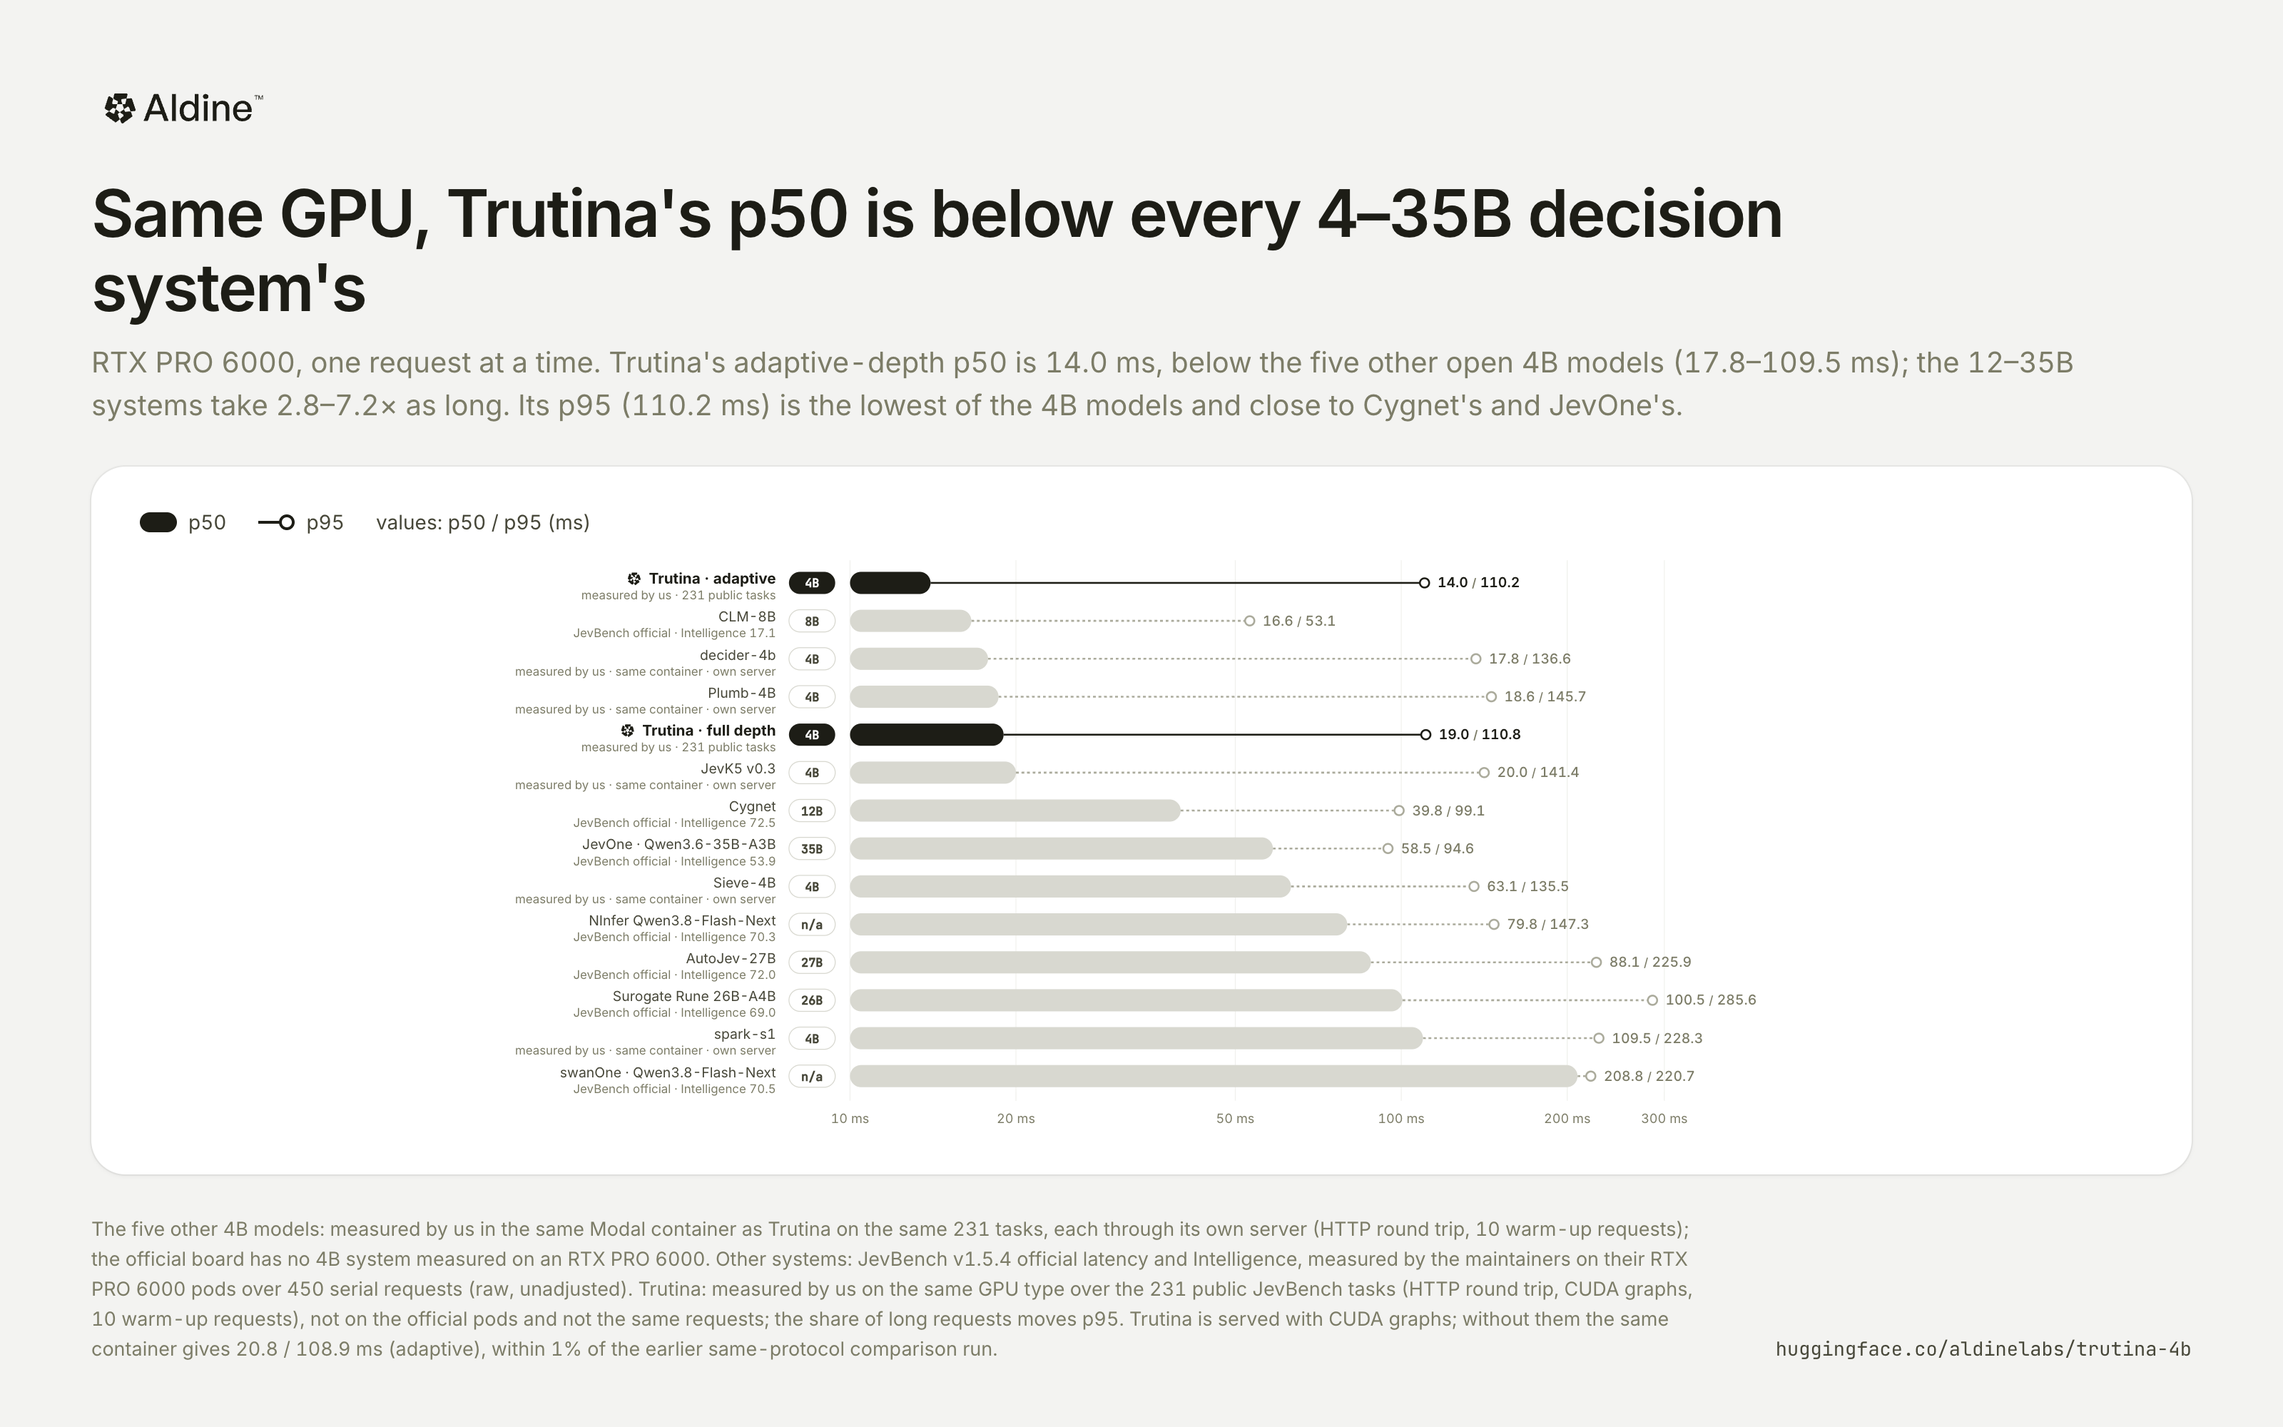
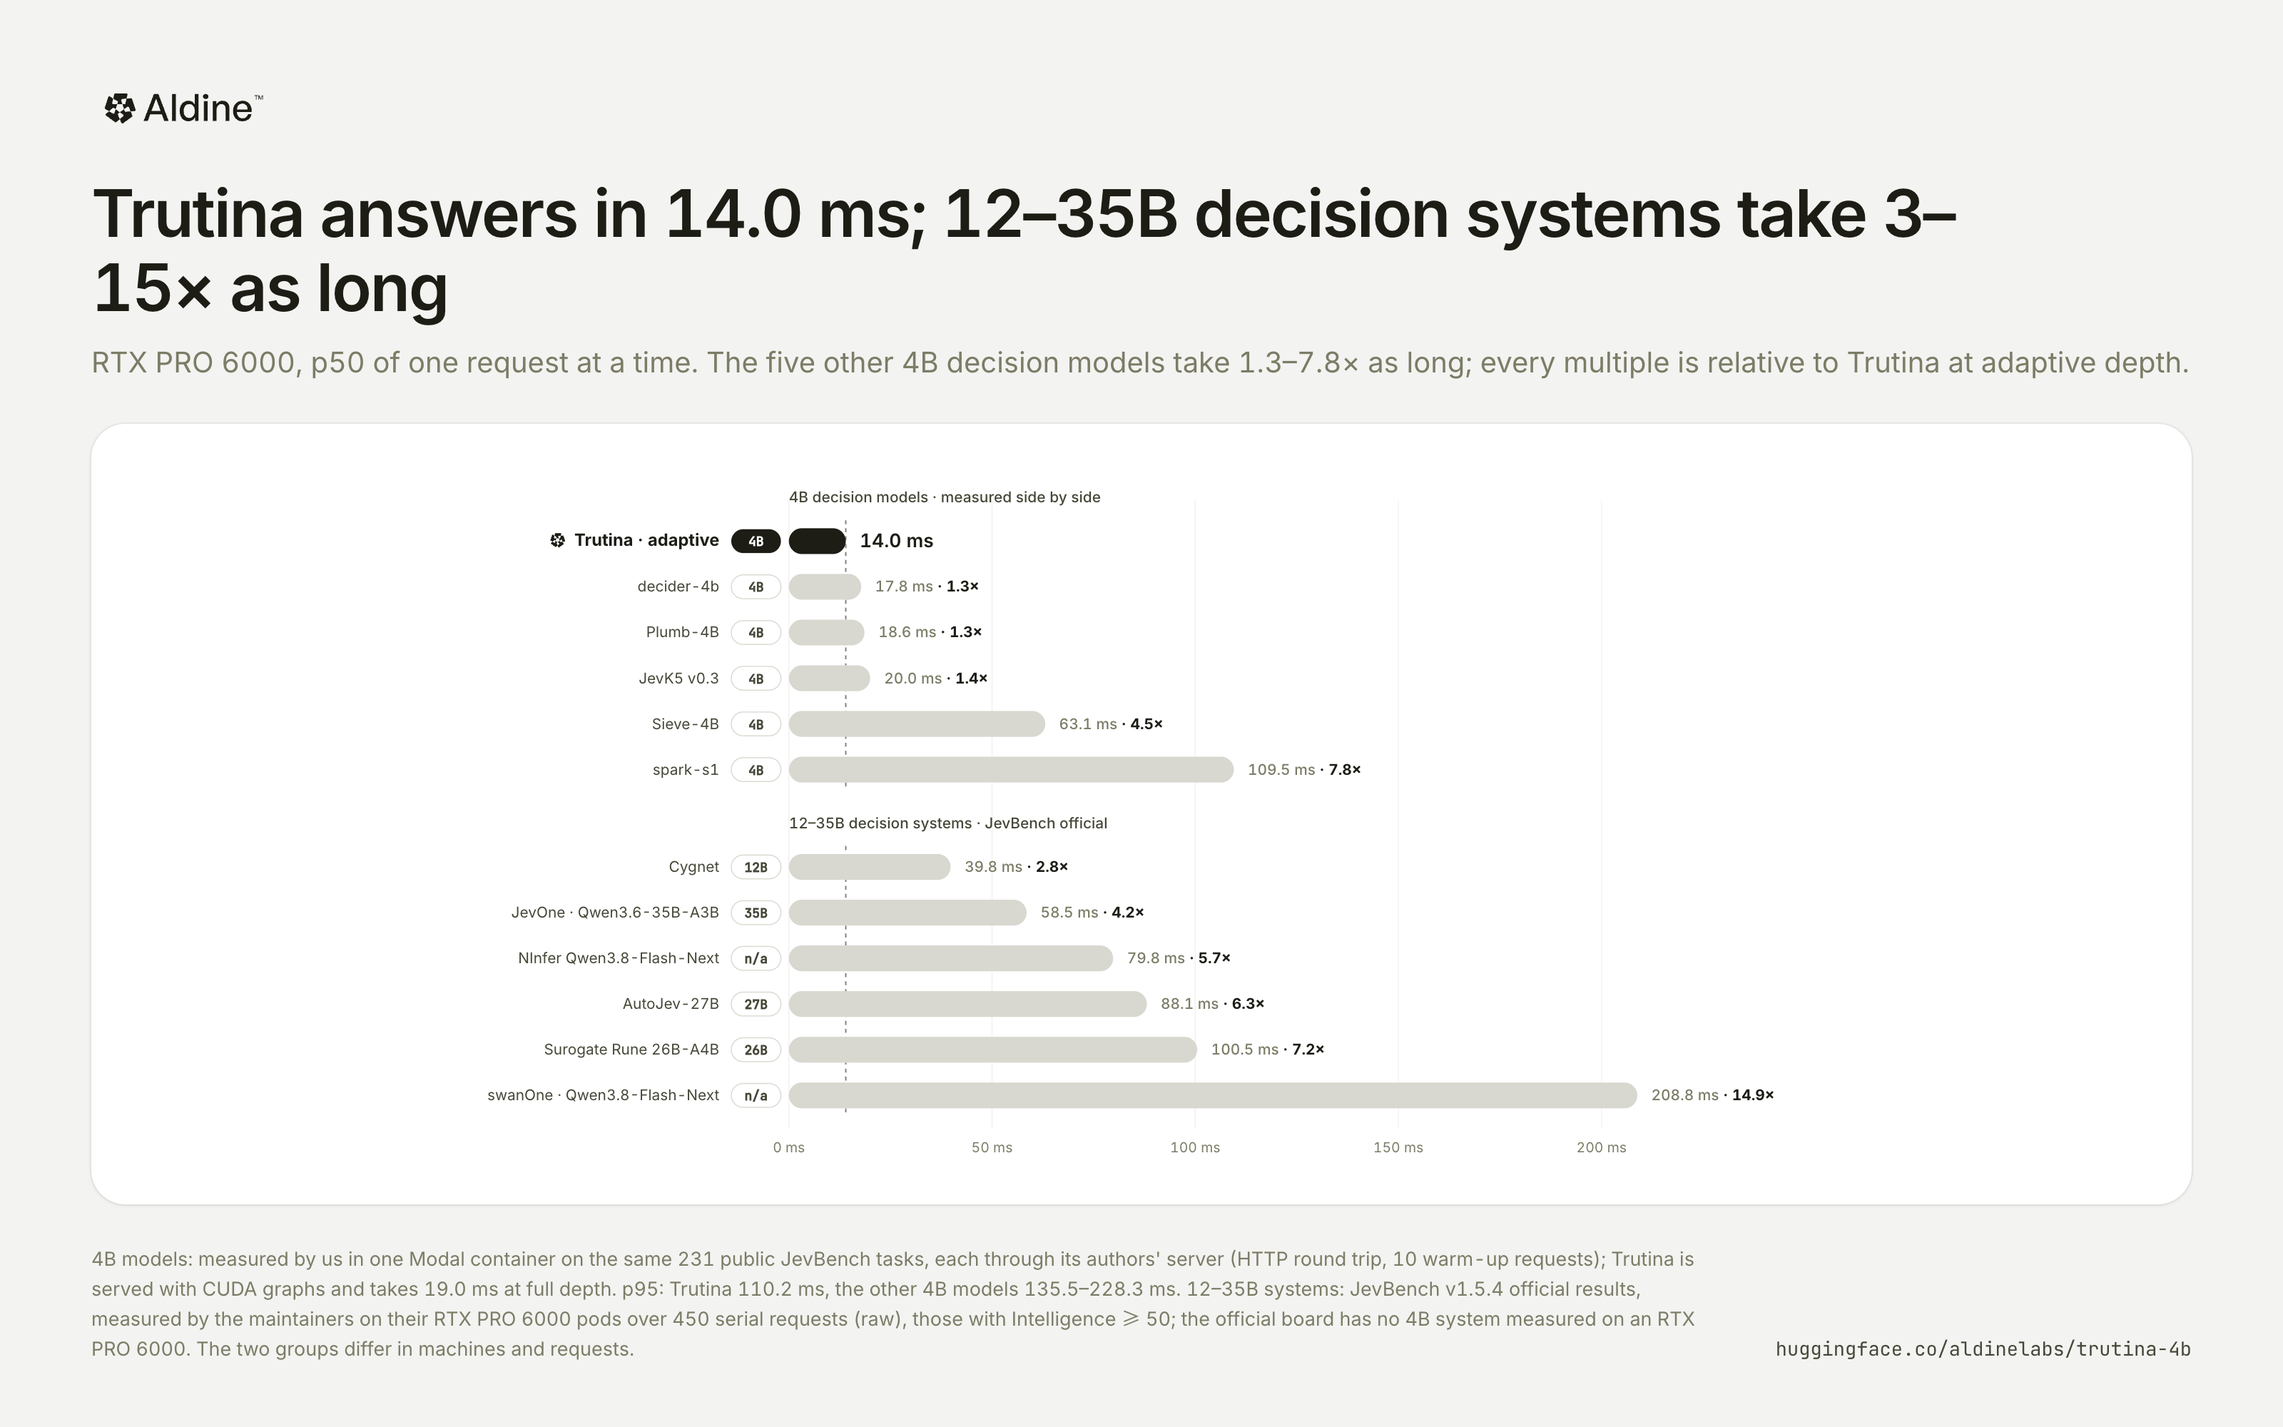
docs: same-GPU latency chart shows p50 only, in two groups with multiples of Trutina's; drop the duplicate latency chart

diff --git a/assets/charts/charts.html b/assets/charts/charts.html
@@ -320,37 +320,47 @@ function panel() {
 
 /* ---------- Latency against larger systems on the same GPU type ---------- */
 function bigger() {
-  const rows = D.bigger.map(r => ({ ...r, label: r.us ? (r.mode === "adaptive" ? (zh ? "Trutina · 自适应深度" : "Trutina · adaptive") : (zh ? "Trutina · 完整深度" : "Trutina · full depth")) : r.name }));
-  const W = 1470, rowH = 41, top = 8, H = rows.length * rowH + top + 40, lx = 420;
-  const x = logScale(10, 300, lx, W - 170);
-  let g = "";
-  for (const t of [10, 20, 50, 100, 200, 300]) g += `<line x1="${x(t)}" x2="${x(t)}" y1="${top - 4}" y2="${H - 34}" stroke="var(--grid)"/><text class="axis" x="${x(t)}" y="${H - 10}" text-anchor="middle">${t} ms</text>`;
-  rows.forEach((r, i) => {
-    const cy = top + i * rowH + rowH / 2;
-    g += `<text class="${r.us ? "lbl-us" : "lbl"}" data-nopill x="${lx - 80}" y="${cy + 1}" text-anchor="end" style="font-size:${r.us ? 16 : 15}px">${esc(r.label)}</text>`;
-    g += `<text class="lbl-sub" x="${lx - 80}" y="${cy + 18}" text-anchor="end">${r.us ? (zh ? "本文实测 · 231 道公开题" : "measured by us · 231 public tasks") : r.by === "us" ? (zh ? "本文实测 · 同一容器 · 自带服务端" : "measured by us · same container · own server") : (zh ? `JevBench 官方测得 · Intelligence ${fmt1(r.i_open)}` : `JevBench official · Intelligence ${fmt1(r.i_open)}`)}</text>`;
-    g += chip(lx - 66, cy, r.size === "?" ? (zh ? "未公开" : "n/a") : r.size, r.us);
-    g += `<line x1="${x(r.p50)}" x2="${x(r.p95)}" y1="${cy}" y2="${cy}" stroke="${r.us ? "var(--fg)" : "var(--faint)"}" stroke-width="2" stroke-dasharray="${r.us ? "" : "3 3"}"/>`;
-    g += bar(lx, cy - 12, x(r.p50) - lx, 24, r.us ? "var(--fg)" : "var(--pale)");
-    g += `<circle cx="${x(r.p95)}" cy="${cy}" r="5" fill="var(--card)" stroke="${r.us ? "var(--fg)" : "var(--faint)"}" stroke-width="2"/>`;
-    g += `<text class="${r.us ? "val" : "val-muted"}" x="${x(r.p95) + 14}" y="${cy + 5}">${fmt1(r.p50)} <tspan class="lbl-sub">/</tspan> ${fmt1(r.p95)}</text>`;
-  });
-  const legend = `<div class="legend"><span><i><svg width="26" height="14"><rect width="26" height="14" rx="7" fill="var(--fg)"/></svg></i>p50</span>
-    <span><i><svg width="26" height="14"><line x1="0" x2="20" y1="7" y2="7" stroke="var(--fg)" stroke-width="2"/><circle cx="20" cy="7" r="4.5" fill="#fff" stroke="var(--fg)" stroke-width="2"/></svg></i>p95</span>
-    <span>${zh ? "数值：p50 / p95（ms）" : "values: p50 / p95 (ms)"}</span></div>`;
-  const ad = rows.find(r => r.us && r.mode === "adaptive"), big = rows.filter(r => !r.us && ["12B", "26B", "27B", "35B"].includes(r.size));
-  const f4 = rows.filter(r => !r.us && r.size === "4B").map(r => r.p50), f4lo = Math.min(...f4), f4hi = Math.max(...f4);
-  const lo = Math.min(...big.map(r => r.p50)) / ad.p50, hi = Math.max(...big.map(r => r.p50)) / ad.p50;
+  // two groups, p50 only, linear scale, each bar labelled with how many times Trutina's adaptive p50 it is
+  const all = D.bigger, ad = all.find(r => r.us && r.mode === "adaptive"), full = all.find(r => r.us && r.mode === "full");
+  const name = r => r.us ? (zh ? "Trutina · 自适应深度" : "Trutina · adaptive") : r.name;
+  const small = all.filter(r => r.by === "us" && !(r.us && r.mode === "full"));
+  const large = all.filter(r => r.by === "official" && r.i_open >= 50);
+  const groups = [[zh ? "4B 决策模型 · 同一容器内实测" : "4B decision models · measured side by side", small],
+                  [zh ? "12–35B 决策系统 · JevBench 官方测得" : "12–35B decision systems · JevBench official", large]];
+  const W = 1470, rowH = 46, headH = 52, lx = 380, xr = W - 190;
+  const x = linScale(0, 220, lx, xr);
+  const H = groups.reduce((h, [, rs]) => h + headH + rs.length * rowH, 0) + 44;
+  let g = "", y = 0;
+  for (const t of [0, 50, 100, 150, 200]) g += `<line x1="${x(t)}" x2="${x(t)}" y1="${headH - 18}" y2="${H - 34}" stroke="var(--grid)"/><text class="axis" x="${x(t)}" y="${H - 10}" text-anchor="middle">${t} ms</text>`;
+  for (const [title, rs] of groups) {
+    g += `<text class="axis-title" x="${lx}" y="${y + headH - 16}" style="font-size:15px; fill:var(--ink-2)">${title}</text>`;
+    y += headH;
+    // Trutina's p50 carried down through the group as the reference
+    g += `<line x1="${x(ad.p50)}" x2="${x(ad.p50)}" y1="${y + 2}" y2="${y + rs.length * rowH - 2}" stroke="var(--fg)" stroke-width="1.5" stroke-dasharray="4 4" opacity=".55"/>`;
+    for (const r of rs) {
+      const cy = y + rowH / 2, k = r.p50 / ad.p50;
+      g += `<text class="${r.us ? "lbl-us" : "lbl"}" data-nopill x="${lx - 70}" y="${cy + 5}" text-anchor="end" style="font-size:${r.us ? 17 : 15}px">${esc(name(r))}</text>`;
+      g += chip(lx - 58, cy, r.size === "?" ? (zh ? "未公开" : "n/a") : r.size, r.us);
+      g += bar(lx, cy - 13, x(r.p50) - lx, 26, r.us ? "var(--fg)" : "var(--pale)");
+      g += r.us
+        ? `<text class="val" x="${x(r.p50) + 14}" y="${cy + 6}" style="font-size:19px">${fmt1(r.p50)} ms</text>`
+        : `<text class="val-muted" x="${x(r.p50) + 14}" y="${cy + 5}">${fmt1(r.p50)} ms <tspan style="fill:var(--fg); font-weight:700">· ${k.toFixed(1)}×</tspan></text>`;
+      y += rowH;
+    }
+  }
+  const s4 = small.filter(r => !r.us).map(r => r.p50 / ad.p50), sl = large.map(r => r.p50 / ad.p50);
+  const rng = a => `${Math.min(...a).toFixed(1)}–${Math.max(...a).toFixed(1)}`;
+  const p95s = small.filter(r => !r.us).map(r => r.p95);
   return frame(zh ? {
-    title: "同型号 GPU 上，Trutina 的 p50 低于所有 4–35B 决策系统",
-    sub: `RTX PRO 6000，串行单请求。Trutina 自适应深度的 p50 为 ${fmt1(ad.p50)} ms，低于另外 5 个开源 4B（${fmt1(f4lo)}–${fmt1(f4hi)} ms）；12–35B 系统为其 ${lo.toFixed(1)}–${hi.toFixed(1)} 倍。p95（${fmt1(ad.p95)} ms）是 4B 中最低的，与 Cygnet、JevOne 相近。`,
-    body: `<div class="card">${legend}${svgTag(W, H)}${g}</svg></div>`,
-    src: `另外 5 个 4B 模型由我们在 Trutina 的同一 Modal 容器、同一 231 道题上测得，各用其自带的服务端（HTTP 往返，预热 10 条），官方榜单上没有在 RTX PRO 6000 上测得的 4B 系统。其余系统的延迟与 Intelligence 为 JevBench v1.5.4 官方结果，由维护方在其 RTX PRO 6000 测试机上以 450 个请求串行测得（原始值，未作调整）。Trutina 由我们在同型号 GPU 上串行处理 231 道 JevBench 公开题测得（HTTP 往返，CUDA graph，预热 10 条），并非官方测试机，请求集也不同，长请求的比例会影响 p95。Trutina 经 CUDA graph 服务；同一容器内不启用 graph 时为 20.8 / 108.9 ms（自适应深度），与此前的同口径对比运行相差不超过 1%。`,
+    title: `Trutina 的中位延迟 ${fmt1(ad.p50)} ms，12–35B 决策系统要慢 ${Math.round(Math.min(...sl))}–${Math.round(Math.max(...sl))} 倍`,
+    sub: `RTX PRO 6000，串行单请求的 p50。另外 5 个 4B 决策模型为 Trutina 的 ${rng(s4)} 倍；倍数均相对 Trutina 自适应深度。`,
+    body: `<div class="card">${svgTag(W, H)}${g}</svg></div>`,
+    src: `4B 模型由我们在同一 Modal 容器、同一 231 道 JevBench 公开题上测得，各用其作者提供的服务端（HTTP 往返，预热 10 条）；Trutina 经 CUDA graph 服务，完整深度为 ${fmt1(full.p50)} ms。p95：Trutina ${fmt1(ad.p95)} ms，另外 5 个 4B 为 ${fmt1(Math.min(...p95s))}–${fmt1(Math.max(...p95s))} ms。12–35B 系统为 JevBench v1.5.4 官方结果，由维护方在其 RTX PRO 6000 测试机上以 450 个请求串行测得（原始值），取 Intelligence ≥ 50 者；官方榜单上没有在 RTX PRO 6000 上测得的 4B 系统。两组的测试机与请求集不同。`,
   } : {
-    title: "Same GPU, Trutina's p50 is below every 4–35B decision system's",
-    sub: `RTX PRO 6000, one request at a time. Trutina's adaptive-depth p50 is ${fmt1(ad.p50)} ms, below the five other open 4B models (${fmt1(f4lo)}–${fmt1(f4hi)} ms); the 12–35B systems take ${lo.toFixed(1)}–${hi.toFixed(1)}× as long. Its p95 (${fmt1(ad.p95)} ms) is the lowest of the 4B models and close to Cygnet's and JevOne's.`,
-    body: `<div class="card">${legend}${svgTag(W, H)}${g}</svg></div>`,
-    src: `The five other 4B models: measured by us in the same Modal container as Trutina on the same 231 tasks, each through its own server (HTTP round trip, 10 warm-up requests); the official board has no 4B system measured on an RTX PRO 6000. Other systems: JevBench v1.5.4 official latency and Intelligence, measured by the maintainers on their RTX PRO 6000 pods over 450 serial requests (raw, unadjusted). Trutina: measured by us on the same GPU type over the 231 public JevBench tasks (HTTP round trip, CUDA graphs, 10 warm-up requests), not on the official pods and not the same requests; the share of long requests moves p95. Trutina is served with CUDA graphs; without them the same container gives 20.8 / 108.9 ms (adaptive), within 1% of the earlier same-protocol comparison run.`,
+    title: `Trutina answers in ${fmt1(ad.p50)} ms; 12–35B decision systems take ${Math.round(Math.min(...sl))}–${Math.round(Math.max(...sl))}× as long`,
+    sub: `RTX PRO 6000, p50 of one request at a time. The five other 4B decision models take ${rng(s4)}× as long; every multiple is relative to Trutina at adaptive depth.`,
+    body: `<div class="card">${svgTag(W, H)}${g}</svg></div>`,
+    src: `4B models: measured by us in one Modal container on the same 231 public JevBench tasks, each through its authors' server (HTTP round trip, 10 warm-up requests); Trutina is served with CUDA graphs and takes ${fmt1(full.p50)} ms at full depth. p95: Trutina ${fmt1(ad.p95)} ms, the other 4B models ${fmt1(Math.min(...p95s))}–${fmt1(Math.max(...p95s))} ms. 12–35B systems: JevBench v1.5.4 official results, measured by the maintainers on their RTX PRO 6000 pods over 450 serial requests (raw), those with Intelligence ≥ 50; the official board has no 4B system measured on an RTX PRO 6000. The two groups differ in machines and requests.`,
   });
 }
 
@@ -427,39 +437,6 @@ function adaptive() {
     title: "Adaptive depth: stop once the answer settles",
     sub: "Tuned-lens exits at layers 12, 16, 20 and 24 read the same option letters as the final layer. A request stops at the first confident exit; otherwise it carries on from there without recomputing earlier layers.",
     body, src: "Per-exit accuracy measured on the training checkpoint before the LoRA merge (the released weights differ by at most 0.1). Latency: one RTX PRO 6000, serial requests through scripts/serve.py, JevBench public tasks.",
-  });
-}
-
-/* ---------- Latency on RTX PRO 6000 ---------- */
-function latency() {
-  const rows = RUNS();
-  const W = 1470, rowH = 60, top = 10, H = rows.length * rowH + top + 40, lx = 330;
-  const x = logScale(10, 300, lx, W - 230);
-  let g = "";
-  for (const t of [10, 20, 50, 100, 200, 300]) g += `<line x1="${x(t)}" x2="${x(t)}" y1="${top - 4}" y2="${H - 34}" stroke="var(--grid)"/><text class="axis" x="${x(t)}" y="${H - 10}" text-anchor="middle">${t} ms</text>`;
-  const minOf = k => Math.min(...rows.map(r => r[k]));
-  rows.forEach((r, i) => {
-    const cy = top + i * rowH + rowH / 2;
-    g += `<text class="${r.us ? "lbl-us" : "lbl"}" x="${lx - 18}" y="${cy + 6}" text-anchor="end" ${r.us ? 'style="font-size:16px"' : 'style="font-size:15px"'}>${esc(r.label)}</text>`;
-    g += `<line x1="${x(r.p50)}" x2="${x(r.p95)}" y1="${cy}" y2="${cy}" stroke="${r.us ? "var(--fg)" : "var(--faint)"}" stroke-width="2" stroke-dasharray="${r.us ? "" : "3 3"}"/>`;
-    g += bar(lx, cy - 12, x(r.p50) - lx, 24, r.us ? "var(--fg)" : "var(--pale)");
-    g += `<circle cx="${x(r.p95)}" cy="${cy}" r="5" fill="var(--card)" stroke="${r.us ? "var(--fg)" : "var(--faint)"}" stroke-width="2"/>`;
-    const b = (k, v) => v === minOf(k) ? `font-weight:700; fill:var(--fg)` : "";
-    g += `<text class="${r.us ? "val" : "val-muted"}" x="${x(r.p95) + 14}" y="${cy + 5}"><tspan style="${b("p50", r.p50)}">${fmt1(r.p50)}</tspan> <tspan class="lbl-sub">/</tspan> <tspan style="${b("p95", r.p95)}">${fmt1(r.p95)}</tspan> <tspan class="lbl-sub">· ${zh ? "平均" : "mean"}</tspan> <tspan style="${b("mean", r.mean)}">${fmt1(r.mean)}</tspan></text>`;
-  });
-  const legend = `<div class="legend"><span><i><svg width="26" height="14"><rect width="26" height="14" rx="7" fill="var(--fg)"/></svg></i>p50</span>
-    <span><i><svg width="26" height="14"><line x1="0" x2="20" y1="7" y2="7" stroke="var(--fg)" stroke-width="2"/><circle cx="20" cy="7" r="4.5" fill="#fff" stroke="var(--fg)" stroke-width="2"/></svg></i>p95</span>
-    <span>${zh ? "数值：p50 / p95 · 平均（ms），粗体为该列最低" : "values: p50 / p95 · mean (ms), bold = lowest"}</span></div>`;
-  return frame(zh ? {
-    title: "同一 GPU 上，Trutina 的 p50、p95 与平均延迟均为最低",
-    sub: "启用自适应深度时，Trutina 的 p50 为 14.0 ms、p95 为 110 ms、平均为 30.6 ms，三项均为 6 个开放 4B 决策模型中最低；其他模型中 p50 最低的是 decider（17.8 ms）。",
-    body: `<div class="card">${legend}${svgTag(W, H)}${g}</svg></div>`,
-    src: `${SAME_RUN_ZH}${US_ZH}`,
-  } : {
-    title: "Lowest p50, p95 and mean latency on the same GPU",
-    sub: "With adaptive depth Trutina's p50 is 14.0 ms, its p95 110 ms and its mean 30.6 ms, the lowest of the six open 4B decision models on all three; the lowest p50 among the others is decider's 17.8 ms.",
-    body: `<div class="card">${legend}${svgTag(W, H)}${g}</svg></div>`,
-    src: `${SAME_RUN_EN} ${US_EN}`,
   });
 }
 
@@ -581,7 +558,7 @@ function overview() {
   });
 }
 
-const CHARTS = { typed, panel, bigger, compare, overview, pareto, efficiency, size, localllama, adaptive, latency, heldout };
+const CHARTS = { typed, panel, bigger, compare, overview, pareto, efficiency, size, localllama, adaptive, heldout };
 document.getElementById("frame").innerHTML = CHARTS[location.hash.slice(1) || "overview"]();
 document.fonts.ready.then(() => { placeMarks(); document.body.dataset.ready = "1"; });
 </script>

diff --git a/assets/charts/render.py b/assets/charts/render.py
@@ -11,7 +11,7 @@ from pathlib import Path
 from playwright.sync_api import sync_playwright
 
 HERE = Path(__file__).resolve().parent
-CHARTS = ["typed", "panel", "bigger", "compare", "overview", "pareto", "efficiency", "size", "localllama", "adaptive", "latency", "heldout"]
+CHARTS = ["typed", "panel", "bigger", "compare", "overview", "pareto", "efficiency", "size", "localllama", "adaptive", "heldout"]
 LANGS = ["en", "zh"]
 
 
